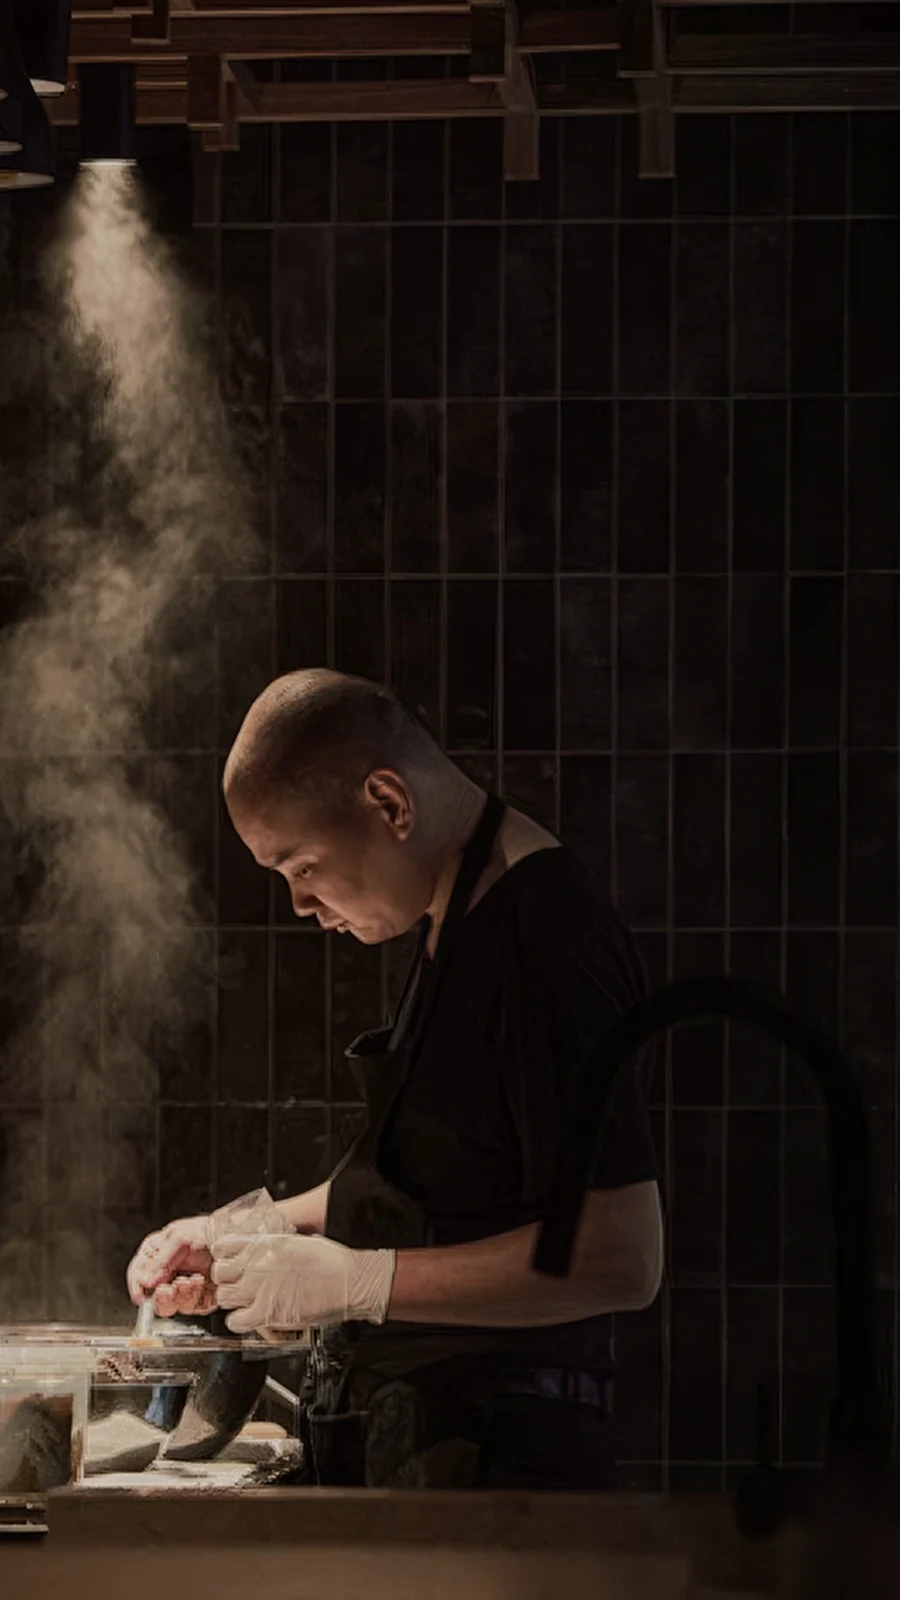
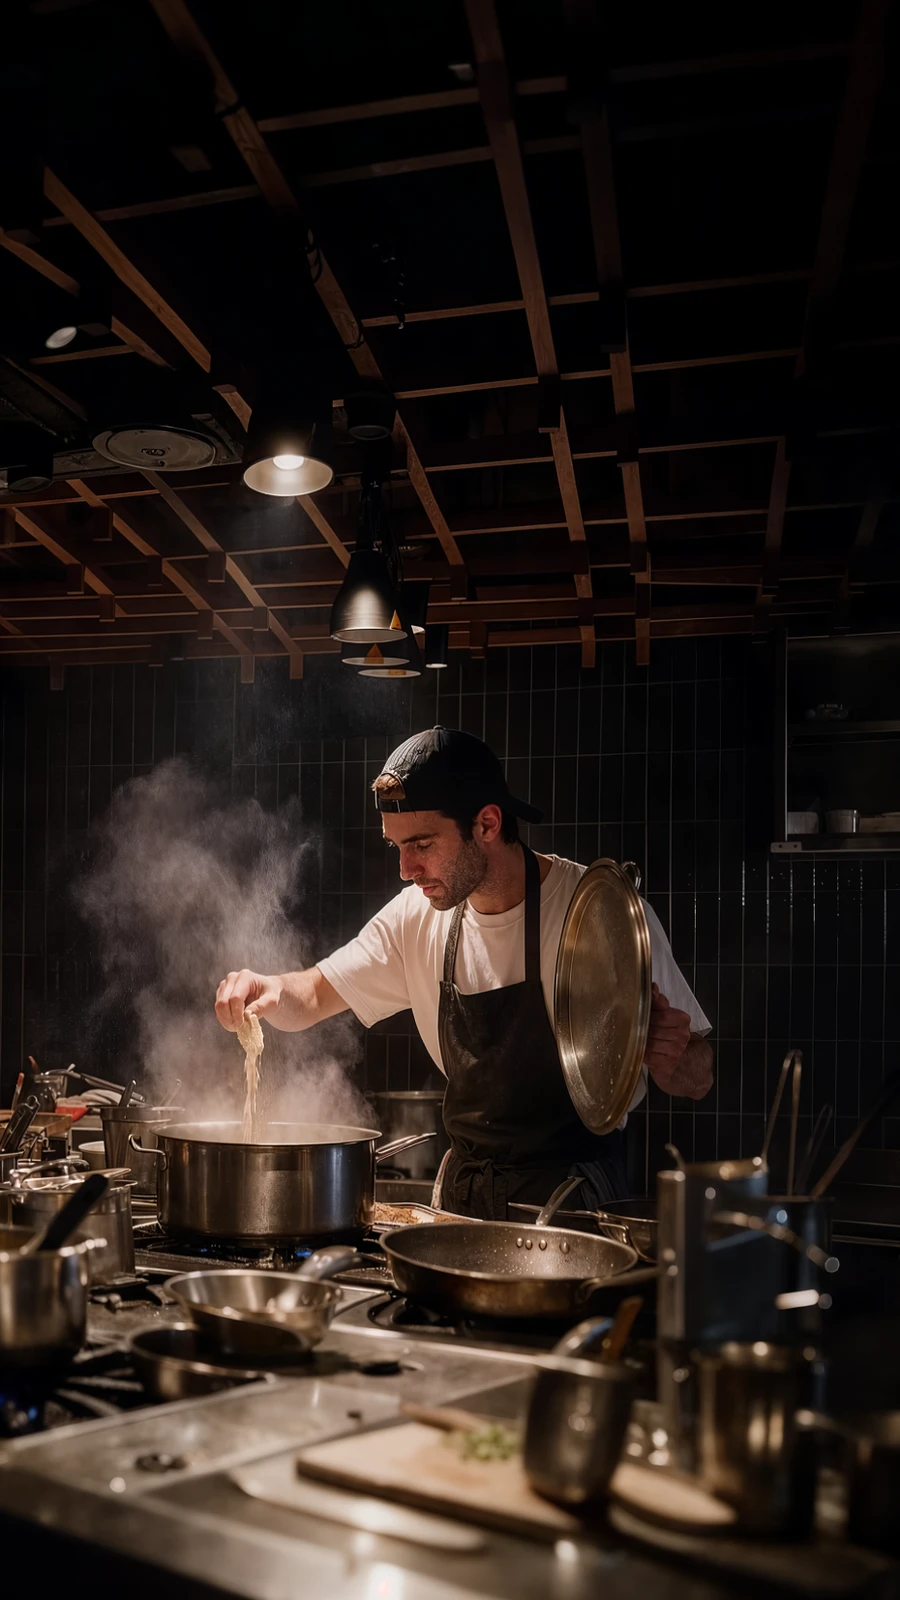
Replace hero photo with Squad-Chef-2.png across all breakpoints
Same art-directed-crop approach as before: one master photo, three
crops matching each breakpoint's box (1920x1080 desktop / 1200x500
tablet banner / 900x1600 mobile portrait centred on the chef), so all
three show the same photo instead of drifting out of sync.

diff --git a/BRAND.md b/BRAND.md
@@ -61,7 +61,11 @@ Nine icons representing Squad's offerings, saved as-is from the desktop into [`p
 
 # Photography
 
-[`public/images/squad-image_Chef.webp`](public/images/squad-image_Chef.webp) — chef plating in a dark restaurant kitchen, from the desktop upload (`squad-image_Chef.webp`). 1920×1080.
+Hero photo, source `Squad-Chef-2.png` (chef in a dark restaurant kitchen, lifting steaming noodles from a pot) — cropped per breakpoint from the same source image so the same photo is consistent across all three:
+
+- [`public/images/squad-image_Chef.webp`](public/images/squad-image_Chef.webp) — desktop, 1920×1080 (16:9)
+- [`public/images/hero-tablet.webp`](public/images/hero-tablet.webp) — tablet, 1200×500 (banner)
+- [`public/images/hero-mobile.webp`](public/images/hero-mobile.webp) — mobile, 900×1600 (portrait, centred on the chef)
 
 # Client logos
 
